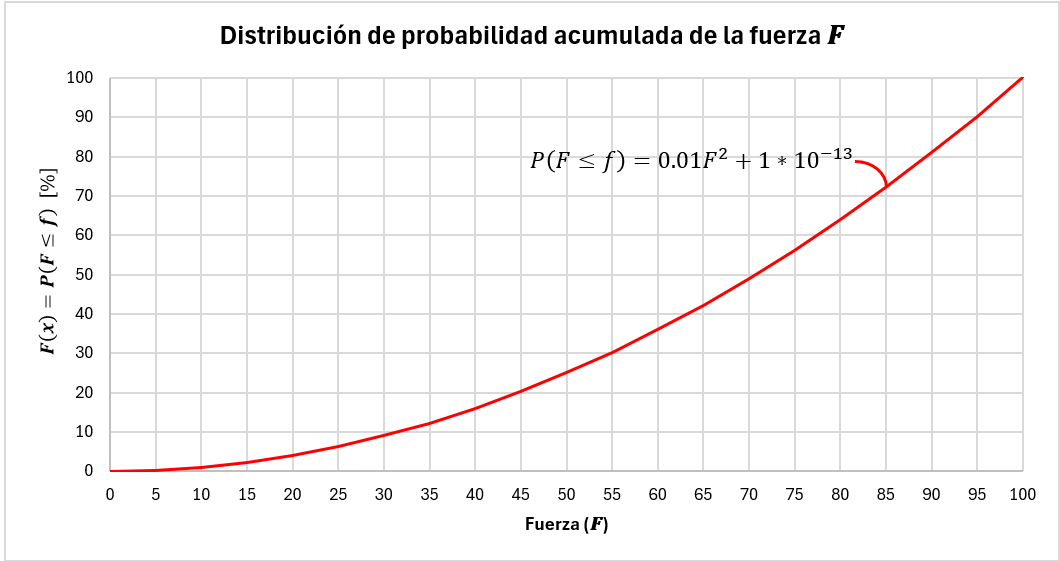
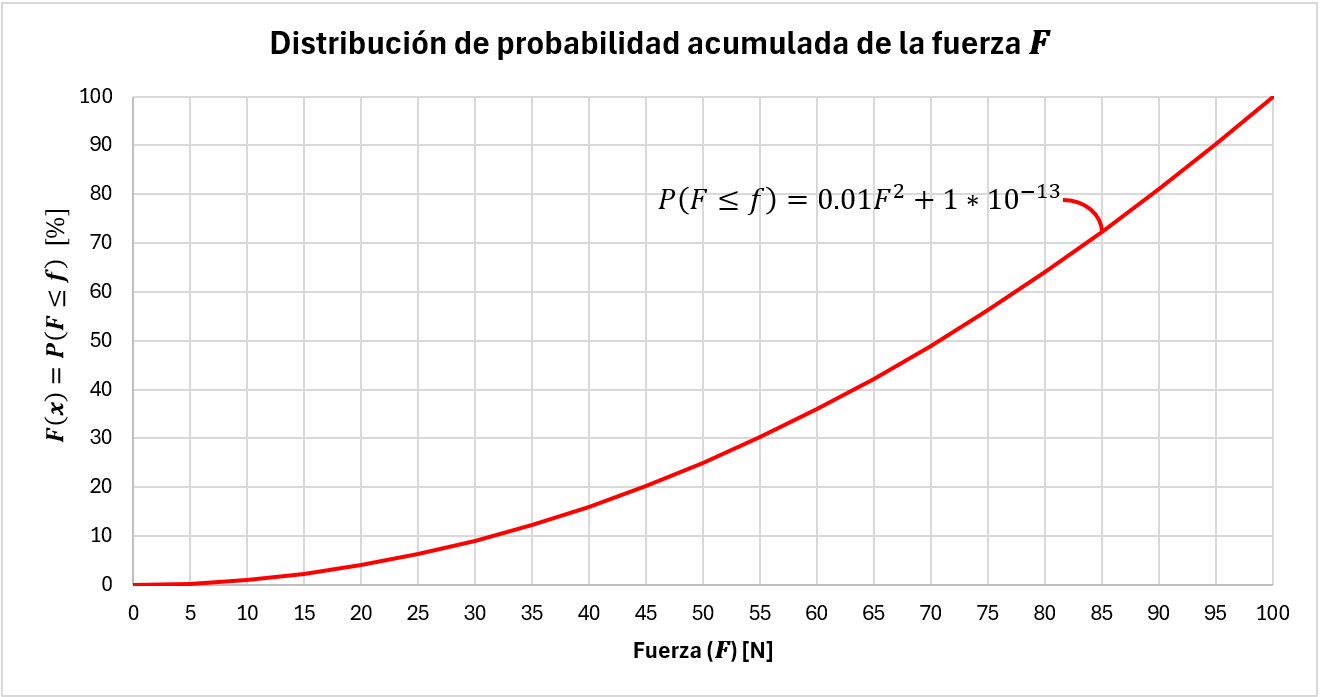
Incertidume_M_1

diff --git a/Class_Preguntas.py b/Class_Preguntas.py
@@ -6202,11 +6202,11 @@ preguntas = [
 
         $\\textbf{{\\small 1. Calcular la probabilidad de ocurrencia: }}$
 
-        Teniendo en cuenta que la probabilidad de excedencia se calcula como la diferencia entre 1 y la probabilidad de ocurrencia, primero se calcula la probabilidad de ocurrencia $(P(X \\leq x))$ asociada a la probabilidad de excedencia proporcionada en el enunciado.
+        Teniendo en cuenta que la probabilidad de excedencia se calcula como la diferencia entre 1 y la probabilidad de ocurrencia, primero se calcula la probabilidad de ocurrencia $(P(F \\leq f))$ asociada a la probabilidad de excedencia proporcionada en el enunciado.
 
-        ${{\hspace{{4mm}} P(X \\leq x) = 1 - P(X > x)}}$          
-        ${{\hspace{{4mm}} P(X \\leq x) = 1 - {(round(((m[1]-5)/5))*5)/100:.2f}}}$    
-        ${{\hspace{{4mm}} P(X \\leq x) = {1-((round(((m[1]-5)/5))*5)/100):.2f}  }}$
+        ${{\hspace{{4mm}} P(F \\leq f) = 1 - P(F > f)}}$          
+        ${{\hspace{{4mm}} P(F \\leq f) = 1 - {(round(((m[1]-5)/5))*5)/100:.2f}}}$    
+        ${{\hspace{{4mm}} P(F \\leq f) = {1-((round(((m[1]-5)/5))*5)/100):.2f}  }}$
         
         $\\textbf{{\\small 2. Determinar la probabilidad de excedencia: }}$
 
@@ -6242,7 +6242,7 @@ preguntas = [
 
         $\\textbf{{\\small 1. Determinar la probabilidad de ocurrencia: }}$
 
-        Teniendo en cuenta que la probabilidad de ocurrencia se obtiene de la gráfica de distribución acumulada de la variable aleatoria $X$, primero se ubica en el eje $X$ la fuerza indicada en el enunciado ${round(((m[1]-5)/5))*5:.0f}$ $\\text{{ N}}$, y luego se proyecta su correspondiente valor en el eje $Y$. En este caso, la probabilidad es ${round(((m[1]-5)/5))*5:.2f}$%.
+        Teniendo en cuenta que la probabilidad de ocurrencia se obtiene de la gráfica de distribución acumulada de la variable aleatoria $F$, primero se ubica en el eje $X$ la fuerza indicada en el enunciado ${round(((m[1]-5)/5))*5:.0f}$ $\\text{{ N}}$, y luego se proyecta su correspondiente valor en el eje $Y$. En este caso, la probabilidad es ${round(((m[1]-5)/5))*5:.2f}$%.
         """,   
         respuesta_P2 = lambda f, a, calc, c, d, m: f"",
         respuesta_P3 = lambda f, a, calc, c, d, m: f"",
@@ -6276,9 +6276,9 @@ preguntas = [
 
         Para determinar la fuerza asociada a la probabilidad de ocurrencia indicada en el enunciado, se despeja $F$ de la ecuación que describe a la distribución acumulada.
 
-        ${{\hspace{{4mm}} P(X \\leq x) = 0.01F^2+1*10^{{-13}}}}$          
+        ${{\hspace{{4mm}} P(F \\leq f) = 0.01F^2+1*10^{{-13}}}}$          
 
-        ${{\hspace{{4mm}} F = \\sqrt{{\\dfrac{{P(X \\leq x) - 1*10^{{-13}}}}{{0.01}} }} }}$  
+        ${{\hspace{{4mm}} F = \\sqrt{{\\dfrac{{P(F \\leq f) - 1*10^{{-13}}}}{{0.01}} }} }}$  
 
         ${{\hspace{{4mm}} F = {math.sqrt(((m[1]-5)-1*10**-13)/0.01):.2f} \\text{{ N}} }}$  
         """,   
@@ -6310,20 +6310,20 @@ preguntas = [
 
         $\\textbf{{\\small 1. Calcular la probabilidad de ocurrencia: }}$
 
-        Teniendo en cuenta que la probabilidad de excedencia se calcula como la diferencia entre 1 y la probabilidad de ocurrencia, primero se calcula la probabilidad de ocurrencia $(P(X \\leq x))$ con la ecuación que describe a la distribución acumulada.
+        Teniendo en cuenta que la probabilidad de excedencia se calcula como la diferencia entre 1 y la probabilidad de ocurrencia, primero se calcula la probabilidad de ocurrencia $(P(F \\leq f))$ con la ecuación que describe a la distribución acumulada.
 
-        ${{\hspace{{4mm}} P(X \\leq x) = 0.01F^2+1*10^{{-13}}}}$           
+        ${{\hspace{{4mm}} P(F \\leq f) = 0.01F^2+1*10^{{-13}}}}$           
 
-        ${{\hspace{{4mm}} P(X \\leq x) = {0.01*(m[1]-5)**2+1*10**(0-13):.2f} \\% }}$  
+        ${{\hspace{{4mm}} P(F \\leq f) = {0.01*(m[1]-5)**2+1*10**(0-13):.2f} \\% }}$  
 
         
         $\\textbf{{\\small 2. Calcular la probabilidad de excedencia: }}$
 
-        ${{\hspace{{4mm}} P(X > x) = 1 - P(X \\leq x)}}$ 
+        ${{\hspace{{4mm}} P(F > f) = 1 - P(F \\leq f)}}$ 
 
-        ${{\hspace{{4mm}} P(X > x) = 1 - {0.01*(m[1]-5)**2+1*10**(-13):.2f} \\%}}$ 
+        ${{\hspace{{4mm}} P(F > f) = 1 - {0.01*(m[1]-5)**2+1*10**(-13):.2f} \\%}}$ 
 
-        ${{\hspace{{4mm}} P(X > x) = {100-(0.01*(m[1]-5)**2+1*10**(-13)):.2f} \\%}}$ 
+        ${{\hspace{{4mm}} P(F > f) = {100-(0.01*(m[1]-5)**2+1*10**(-13)):.2f} \\%}}$ 
         """,   
         respuesta_P2 = lambda f, a, calc, c, d, m: f"",
         respuesta_P3 = lambda f, a, calc, c, d, m: f"",
@@ -6341,18 +6341,31 @@ preguntas = [
         topic = "Incertidumbre",
         subtopic = "Incertidumbre",
         version = 1,
-        pregunta = lambda f, a, calc, c, d, m: f"Esta sección de la aplicación está en implementación. ¡Pronto estará disponible!", #¿Cuál es la probabilidad de ocurrencia del momento {d[0]+4:.0f}?
+        pregunta = lambda f, a, calc, c, d, m: f"¿Cuál es la probabilidad de ocurrencia del momento ${d[0]+5:.0f}$ $\\text{{N}} \\cdot \\text{{m}}$?", 
         no_answers = 1,
-        a1_name = "",
+        a1_name = "Probabilidad de ocurrencia [%]",
         a2_name = "",
         a3_name = "",
-        answer1=lambda f, a, calc, c, d, m: 0,
+        answer1=lambda f, a, calc, c, d, m: np.round(((d[0]+5)-5)*0.1*100,2),
         answer2=lambda f, a, calc, c, d, m: 0,
         answer3=lambda f, a, calc, c, d, m: 0,
-        ayuda1 = "",
-        ayuda2 = "",
+        ayuda1 = I5,
+        ayuda2 = I6,
         ayuda3 = "",
-        respuesta_P1 = lambda f, a, calc, c, d, m:"", 
+        respuesta_P1 = lambda f, a, calc, c, d, m:f"""
+        La probabilidad de ocurrencia de un valor en evaluación corresponde a la probabilidad acumulada hasta ese punto. En este caso, es el área desde el inicio de la función hasta el punto en evaluación.
+
+        A continuación, se presenta una solución sugerida para el ejercicio:
+
+        $\\textbf{{\\small 1. Calcular la probabilidad de ocurrencia: }}$
+
+        La probabilidad de ocurrencia se calcula desde el inicio de la función $(5)$ hasta el valor en evaluación $({d[0]+5:.0f})$.
+
+        ${{\hspace{{4mm}} P(M \\leq m) = ({d[0]+5:.0f}-5)*\\dfrac{{1}}{{10}} }}$  
+
+        ${{\hspace{{4mm}} P(M \\leq m) = {(d[0])*0.1*100:.2f} \\%}}$           
+
+        """, 
         respuesta_P2 = lambda f, a, calc, c, d, m: f"""
         """,
         respuesta_P3 = lambda f, a, calc, c, d, m: f"",    

diff --git a/Texts.py b/Texts.py
@@ -200,6 +200,8 @@ I1 = "La distribución acumulada de una variable aleatoria $(X)$ proporciona inf
 I2 = "La probabilidad de excedencia es la probabilidad de que la variable aleatoria $X$ tome un valor mayor al que se está evaluando."
 I3 = "La probabilidad de excedencia se calcula como: $P(X > x) = 1-P(X \\leq x)$."
 I4 = "Para determinar el valor de la variable aleatoria $X$ asociada a una probabilidad de ocurrencia dada, primero ubique dicha fuerza en el eje $X$ y proyecte su correspondiente valor en el eje $Y$. Este será el valor buscado."
+I5 = "La probabilidad de ocurrencia de un valor en evaluación corresponde a la probabilidad acumulada hasta ese punto. Es decir, es la probabilidad de que la variable aleatoria $X$ tome un valor menor o igual al evaluado ($P(X \\leq x)).$"
+I6 = "Para determinar la probabilidad de ocurrencia de un valor específico de la variable aleatoria $X$ a partir de su función de densidad, es necesario calcular el área bajo la curva de densidad desde su inicio hasta el valor en evaluación."
 
 #CERCHAS
 C1 = "El grado de un apoyo corresponde al número de reacciones que genera. Si es de primer grado tiene una reacción perpendicular a la superficie. Si es de segundo grado tiene dos restricciones, impidiendo la traslación en cualquier direccion. Si es de tercer grado tiene tres restricciones, evitando la traslación y la rotación."

diff --git a/Interface.py b/Interface.py
@@ -891,6 +891,9 @@ if authenticate_user():
                         st.image(SE_image_paths[4], width=450)  
                     if pregunta_no == 2:
                         st.image(SE_image_paths[5], width=350)
+                if subtopic == "Incertidumbre":
+                    if pregunta_no == 1:
+                        st.image(I_image_paths[2], width=850) 
                 if subtopic == "Cerchas":
                     if pregunta_no == 1:
                         st.image(AR_image_paths[4], width=400) 

diff --git a/Imagenes.py b/Imagenes.py
@@ -173,6 +173,9 @@ I_image_paths =[
 #Nivel fácil
 "./Imagenes/Preguntas/I/I_I_F_1a.png", #[0]
 "./Imagenes/Preguntas/I/I_I_F_3a.png", #[1]
+
+#Nivel medio
+"./Imagenes/Preguntas/I/I_I_M_1a.png", #[2]
 ]
 
 #================================ Imágenes Preguntas Cálculo Armaduras ===================================
